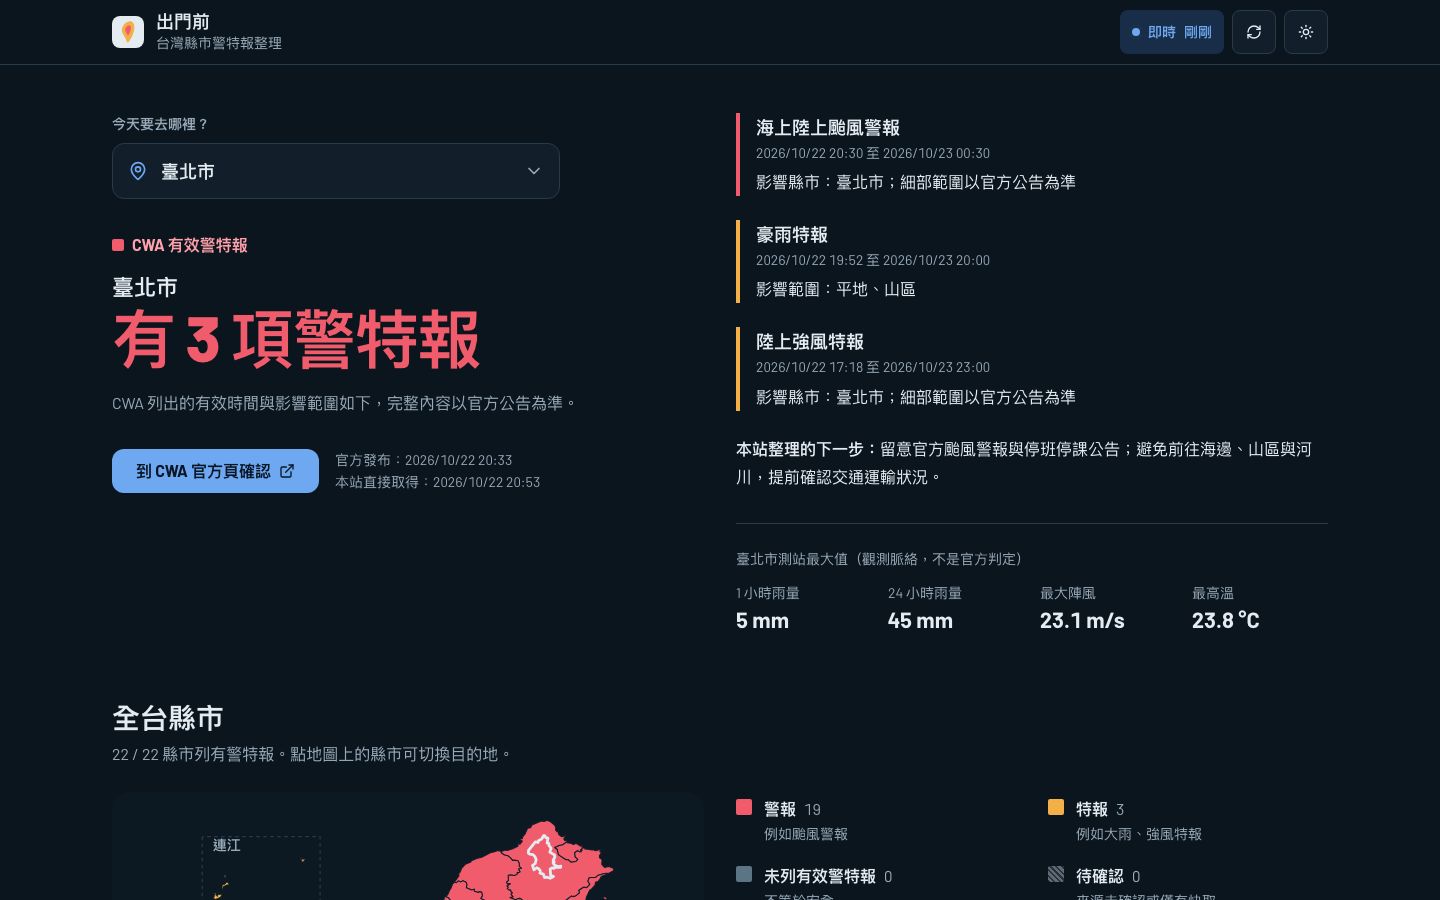
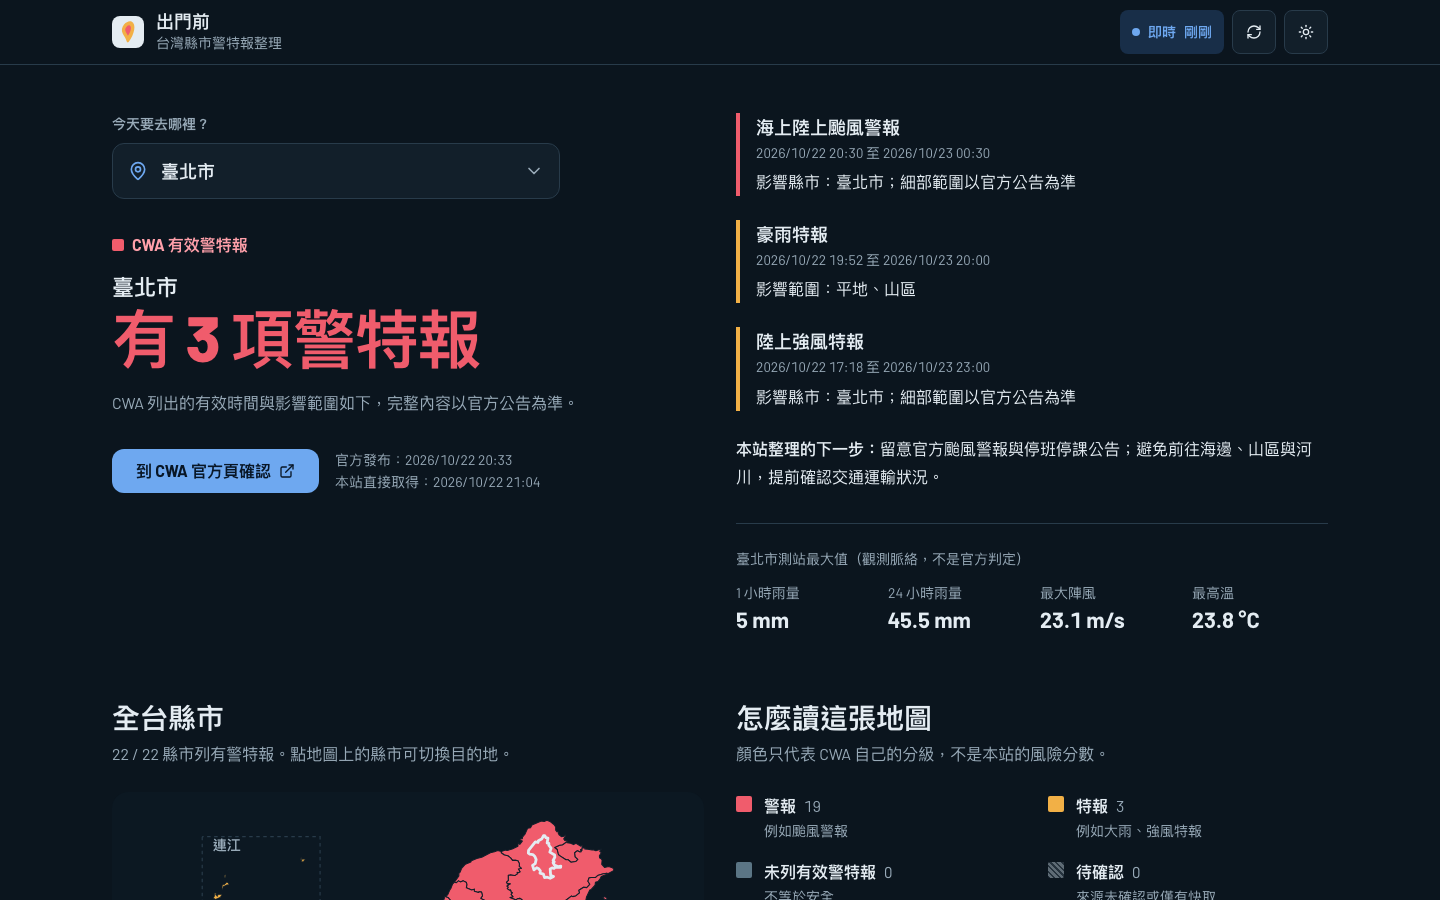
fix: align map legend with the map and retake evidence screenshots

diff --git a/src/App.tsx b/src/App.tsx
@@ -661,8 +661,10 @@ function MapSection({
           />
         </div>
       </div>
-      <div className="min-w-0 lg:pt-16">
-        <ul className="grid gap-x-8 gap-y-4 sm:grid-cols-2" aria-label="地圖圖例">
+      <div className="min-w-0">
+        {/* Same heading structure as the map column, so the legend starts level with the map. */}
+        <SectionHeading id="legend-title" title="怎麼讀這張地圖" description="顏色只代表 CWA 自己的分級，不是本站的風險分數。" />
+        <ul className="grid gap-x-8 gap-y-4 sm:grid-cols-2" aria-labelledby="legend-title">
           {counts.map((item) => (
             <li key={item.status} className="flex items-start gap-3">
               <span
